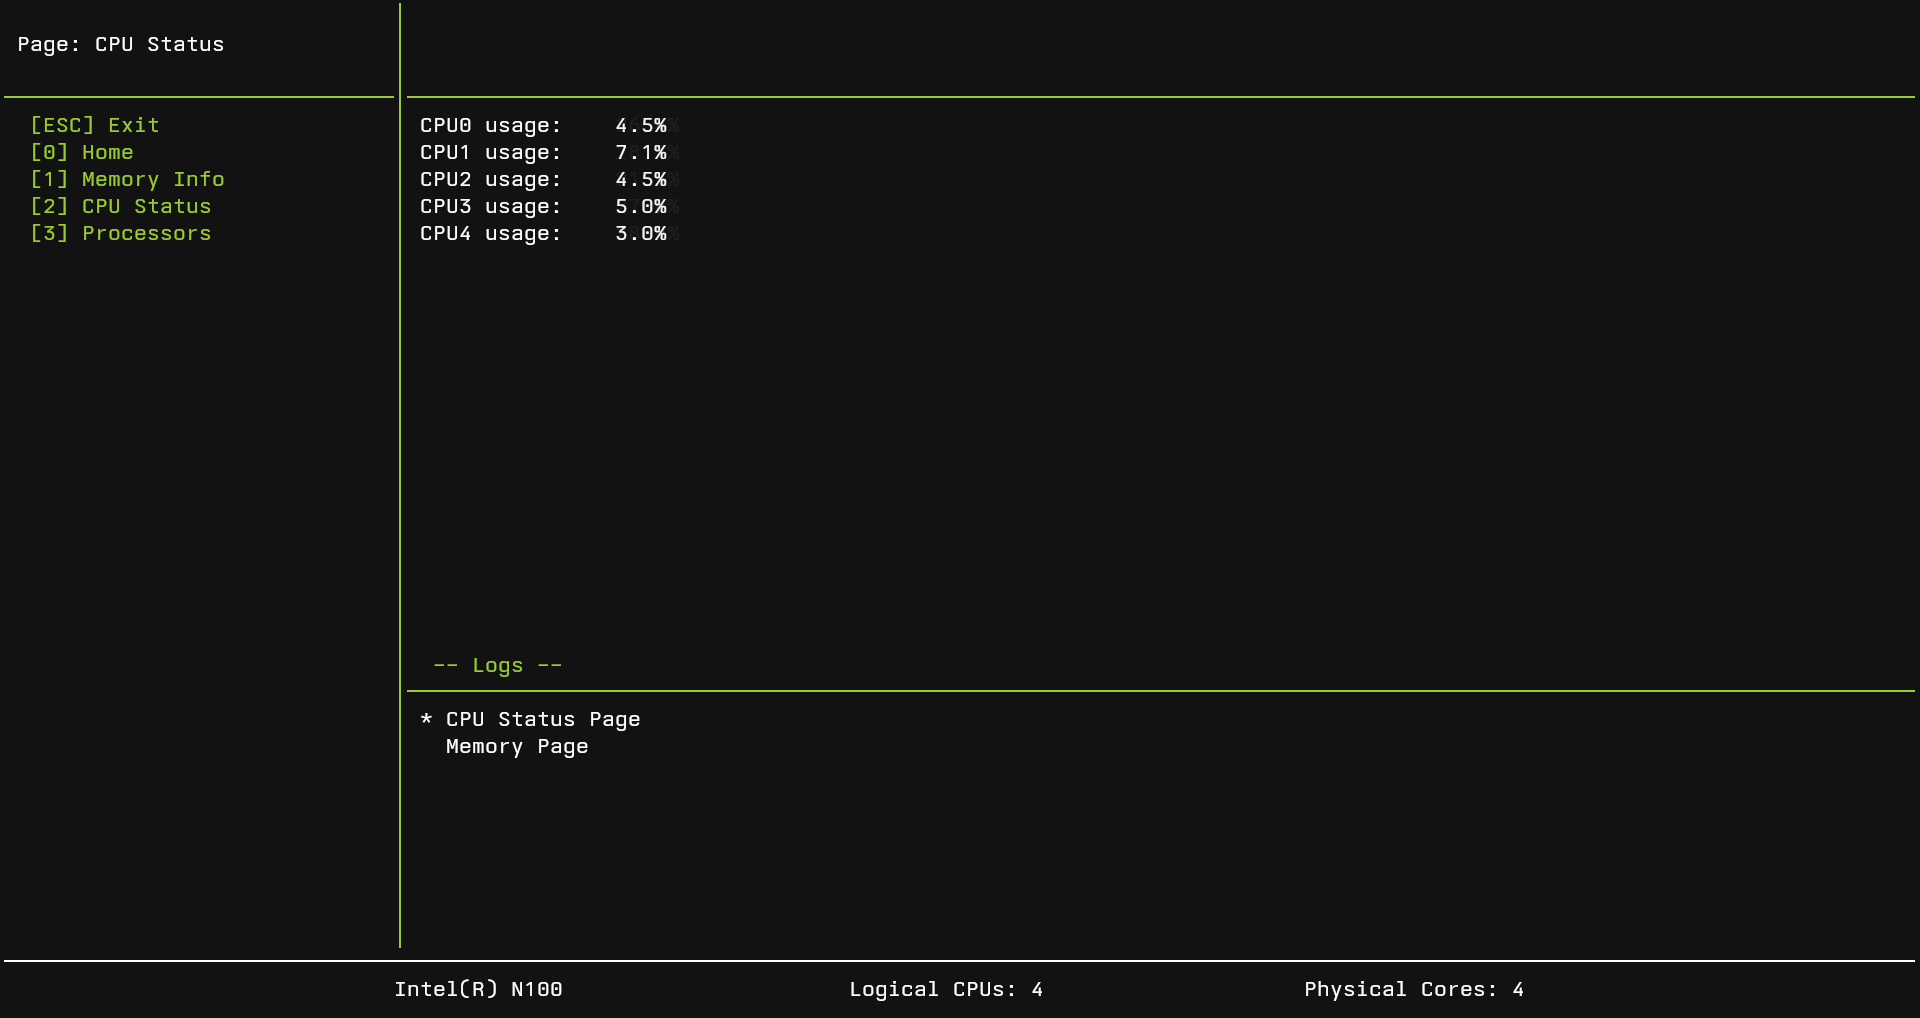
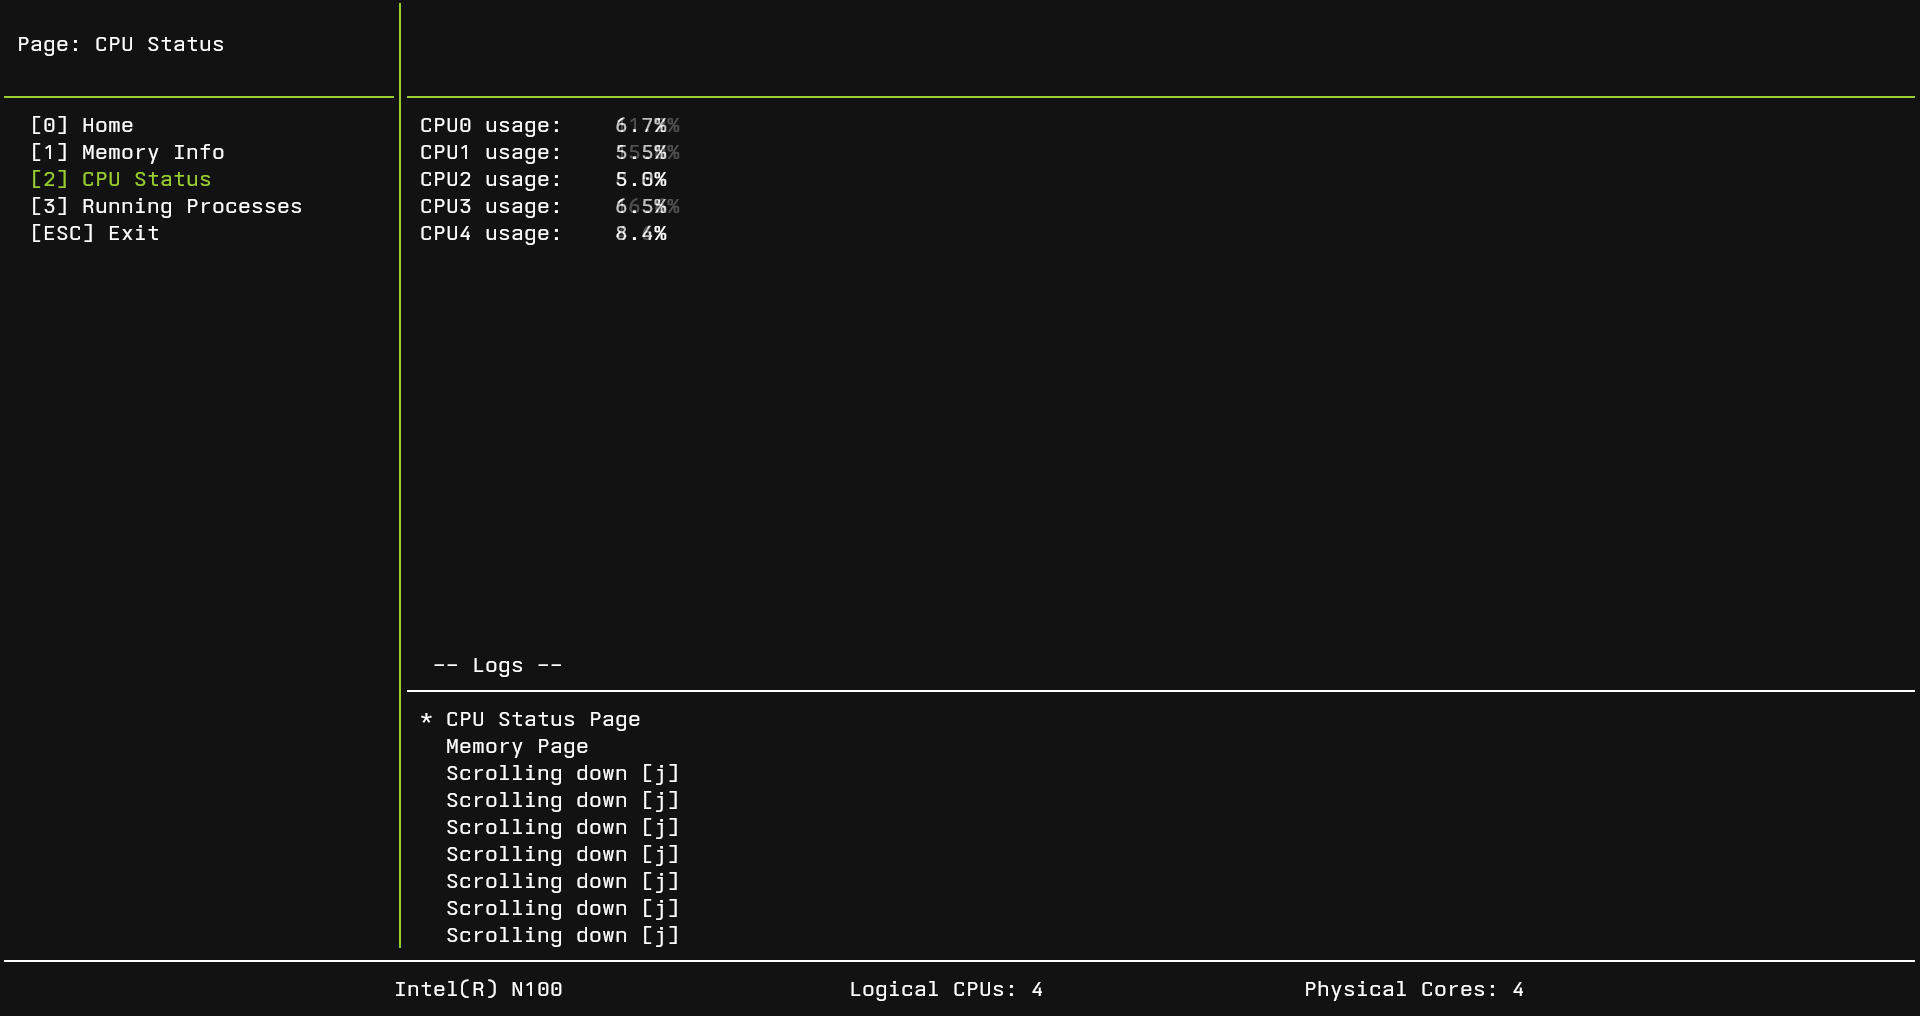
added processes page which displaying a list of running processes in the system.
users can scroll up and down [j, k].

diff --git a/scenes/processes/processes.go b/scenes/processes/processes.go
@@ -1,0 +1,190 @@
+package processes
+
+import (
+	"context"
+	"fmt"
+	"sort"
+	"sync"
+	"time"
+
+	"github.com/gdamore/tcell/v3"
+	"github.com/gdamore/tcell/v3/color"
+	"github.com/omar0ali/sysmon/pkg"
+	"github.com/omar0ali/sysmontui/scenes/options"
+	"github.com/omar0ali/sysmontui/scenes/perm/controls"
+	"github.com/omar0ali/sysmontui/screentui"
+	"github.com/omar0ali/sysmontui/screentui/interfaces"
+	"github.com/omar0ali/sysmontui/screentui/window"
+)
+
+var (
+	start = 0
+	end   = 0
+)
+
+type process struct {
+	Name       string
+	PID        int
+	CPUPercent float64
+}
+
+type Processes struct {
+	mu            sync.RWMutex
+	LogsAddToList controls.LogsAddToList
+	Processes     []*process
+}
+
+func Init(logsFunc controls.LogsAddToList, ctx context.Context, op options.Options) *Processes {
+	processes := &Processes{
+		LogsAddToList: logsFunc,
+		Processes:     []*process{},
+	}
+
+	go func(ctx context.Context, processes *Processes, op options.Options) {
+		ticker := time.NewTicker(time.Second * time.Duration(op.Interval))
+		defer ticker.Stop()
+
+		var prevCPU []*pkg.CPUStats
+		prevProcCPU := map[int]uint64{}
+		initialized := false
+
+		for {
+			select {
+			case <-ctx.Done():
+				return
+
+			case <-ticker.C:
+				pids, err := pkg.GetPids()
+				if err != nil {
+					continue
+				}
+
+				procs := map[int]*pkg.Process{}
+				for _, pid := range pids {
+					p, err := pkg.NewProcess(pid)
+					if err != nil {
+						continue
+					}
+					procs[pid] = p
+				}
+
+				currCPU, err := pkg.ReadCpuStat()
+				if err != nil {
+					continue
+				}
+
+				// First run → just initialize baseline
+				if !initialized {
+					for pid, p := range procs {
+						prevProcCPU[pid] = p.Stat.UTime + p.Stat.STime
+					}
+					prevCPU = currCPU
+					initialized = true
+					continue
+				}
+
+				pkg.RefreshProcesses(procs)
+
+				delta := pkg.DeltaCPUStats(prevCPU, currCPU)
+
+				totalDelta := uint64(0)
+				for _, d := range delta {
+					totalDelta += d.User + d.Nice + d.System + d.Idle +
+						d.Iowait + d.Irq + d.SoftIrq
+				}
+
+				processes.mu.Lock()
+				processes.Processes = processes.Processes[:0] // reset list
+
+				for pid, p := range procs {
+					prev, ok := prevProcCPU[pid]
+					if !ok {
+						continue
+					}
+
+					curr := p.Stat.UTime + p.Stat.STime
+					procDelta := curr - prev
+
+					cpuPercent := float64(procDelta) / float64(totalDelta) * 100
+
+					processes.Processes = append(processes.Processes, &process{
+						Name:       p.Stat.Comm,
+						PID:        pid,
+						CPUPercent: cpuPercent,
+					})
+
+					// update baseline
+					prevProcCPU[pid] = curr
+				}
+
+				processes.mu.Unlock()
+
+				prevCPU = currCPU
+			}
+		}
+	}(ctx, processes, op)
+
+	return processes
+}
+
+func (p *Processes) Update(d float64) {}
+func (p *Processes) Render(s interfaces.ScreenControl) {
+	if end == 0 {
+		_, h := s.Size()
+		end = (h / 2) - 6 // limit
+	}
+
+	s.Color(color.White)
+	window.Text(s, screentui.P(1, 1), "Page: Running Processes") // title
+
+	paddingBetweenText := 40
+	startXPos := 32
+	startYPos := 4
+	window.Text(s,
+		screentui.P(float64(startXPos), float64(startYPos)),
+		fmt.Sprintf("Total Processes: %d | Displaying (%d - %d)", len(p.Processes), start, end),
+	)
+
+	window.ListOfTextsWithPadding(s, screentui.P(float64(startXPos), float64(startYPos+1)), paddingBetweenText,
+		[]string{"Name", "PID", "CPU"},
+	)
+
+	window.ListOfTextsWithPadding(s, screentui.P(float64(startXPos), float64(startYPos+2)), paddingBetweenText,
+		[]string{"-------------", "-------------", "------------"},
+	)
+
+	if len(p.Processes) == 0 {
+		window.Text(s, screentui.P(float64(startXPos), float64(startYPos+3)), "Loading...")
+		return
+	}
+
+	// sort processes by name
+
+	sort.Slice(p.Processes, func(i, j int) bool {
+		return p.Processes[i].Name < p.Processes[j].Name
+	})
+
+	for y, proc := range p.Processes[start:end] {
+		window.ListOfTextsWithPadding(s, screentui.P(float64(startXPos), float64(startYPos+y+3)), paddingBetweenText, []string{
+			proc.Name,
+			fmt.Sprintf("%d", proc.PID),
+			fmt.Sprintf("%.2f%%", proc.CPUPercent),
+		})
+	}
+}
+
+func (p *Processes) Events(ev *tcell.EventKey) {
+	if ev.Str() == "j" {
+		if end < len(p.Processes) {
+			start++
+			end++
+		}
+		p.LogsAddToList("Scrolling down\t[j]")
+	} else if ev.Str() == "k" {
+		if start > 0 {
+			start--
+			end--
+		}
+		p.LogsAddToList("Scrolling up\t[k]")
+	}
+}

diff --git a/cmd/cli/main.go b/cmd/cli/main.go
@@ -10,6 +10,7 @@ import (
 	"github.com/omar0ali/sysmontui/scenes/options"
 	"github.com/omar0ali/sysmontui/scenes/perm/controls"
 	"github.com/omar0ali/sysmontui/scenes/perm/cpuinfo"
+	"github.com/omar0ali/sysmontui/scenes/processes"
 	"github.com/omar0ali/sysmontui/screentui/entity"
 	"github.com/omar0ali/sysmontui/screentui/window"
 )
@@ -43,9 +44,11 @@ func main() {
 		entities.GetPermEntities(),
 	)[0].LogsAddToList
 
-	entities.AddEntity("0", home.Init())                                               // non perm scene
-	entities.AddEntity("1", meminfo.Init(logsFunc, ctx, options.Options{Interval: 2})) // non perm scene
+	// non perm scenes
+	entities.AddEntity("0", home.Init())
+	entities.AddEntity("1", meminfo.Init(logsFunc, ctx, options.Options{Interval: 2}))
 	entities.AddEntity("2", cpustat.Init(logsFunc, ctx, options.Options{Interval: 2}))
+	entities.AddEntity("3", processes.Init(logsFunc, ctx, options.Options{Interval: 3}))
 
 	entities.SetScene("0") // set current scene to be displayed / rendered
 

diff --git a/scenes/perm/controls/controls.go b/scenes/perm/controls/controls.go
@@ -105,15 +105,15 @@ func (c *Controls) Events(ev *tcell.EventKey) {
 			c.MenuAddToList("[T] Toggle (MB, GB)")
 			c.sceneControl.SetScene("1")
 			c.LogsAddToList("Memory Page")
-			// page 1
 		case 2:
 			c.sceneControl.SetScene("2")
-			// page 2
 			c.LogsAddToList("CPU Status Page")
 		case 3:
 			c.sceneControl.SetScene("3")
-			c.LogsAddToList("3")
-			// page 3
+			c.LogsAddToList("Running Processes Page")
+			c.MenuAddToList("-------------------")
+			c.MenuAddToList("[j] Scroll Up")
+			c.MenuAddToList("[k] Scroll Down")
 		}
 	}
 }

diff --git a/README.md b/README.md
@@ -12,7 +12,8 @@
 - [x] Home Page
 - [x] CPU Status Info Page
 - [x] Memory Info Page
-- [ ] Showing list of processes
+- [x] Showing list of processes
+- [ ] UI Polishing & Clean up
 
 ### Requirements
 Linux only (uses /proc)
@@ -22,6 +23,9 @@ Linux only (uses /proc)
 ![Sysmontui screenshot cpustatus](assets/screenshots/cpustatus.png)
 #### Memory Info
 ![Sysmontui screenshot meminfo](assets/screenshots/meminfo.png)
+#### Running Processes
+![Sysmontui screenshot processes](assets/screenshots/processes.png)
+
 
 ### Status
 Work in progress
